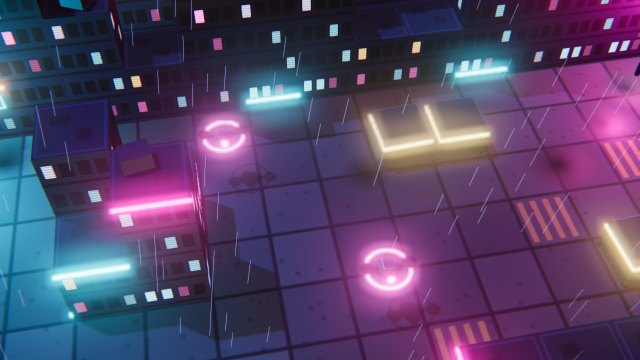
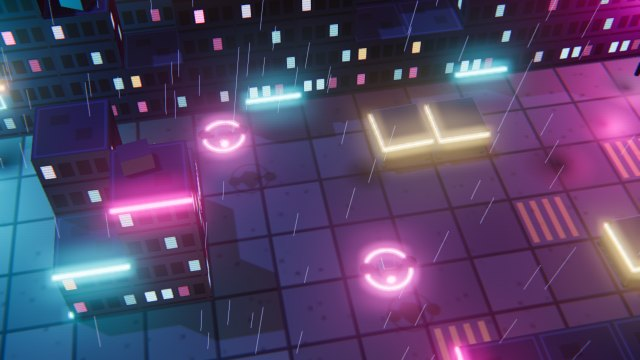
Add District 03: Cryo Admin with security gates
Laser gates 1-3 are solid in both worlds and drop as locks are cracked,
splitting the district into four zones cleared in order. The waypoint
skips locks still behind a closed gate, the minimap shows gates, and
wraith pathing refreshes when one opens. Story now leads to the
hypersleep bay.

diff --git a/src/world.js b/src/world.js
@@ -59,6 +59,7 @@ export class World {
     this.lastBlend = -1;
 
     this.spawns = { player: null, enemies: [], terminals: [], exit: null, lamps: [] };
+    this.locksDone = 0; // security gates 1/2/3 stay shut until this many locks are hacked
     this.parseEntities();
     this.buildEnvironments(renderer);
     this.buildLights();
@@ -73,6 +74,8 @@ export class World {
     this.buildLamps();
     this.buildTerminals();
     this.buildExit();
+    this.buildGates();
+    this.computeLockTiers();
   }
 
   // ---------- grid helpers ----------
@@ -93,6 +96,7 @@ export class World {
       case "~": return mode === "walk";
       case "b": return mode === "walk" && phase === CITY;
       case "v": return mode === "walk" && phase === BREACH;
+      case "1": case "2": case "3": return Number(ch) > this.locksDone;
       default: return false;
     }
   }
@@ -747,6 +751,8 @@ export class World {
       t.ring.material.color.copy(col).multiplyScalar(1.5);
       t.beam.visible = true;
     }
+    this.locksDone = 0;
+    for (const gt of this.gates || []) { gt.open = false; gt.fade = 1; gt.group.visible = true; }
     if (this.exit) {
       this.exit.open = false;
       this.exitRingMat.color.setRGB(1.5, 0.2, 0.25);
@@ -755,6 +761,110 @@ export class World {
       this.exitLight.intensity = 6;
       this.exit.beam.visible = false;
     }
+  }
+
+  // ---------- security gates (District 03+) ----------
+  // Each connected run of the same digit is one gate: laser curtains across the opening,
+  // with a floating number. Gate N drops once N locks are hacked, in any order.
+  buildGates() {
+    this.gates = [];
+    const seen = new Set();
+    for (let r = 0; r < this.rows; r++) for (let c = 0; c < this.cols; c++) {
+      const ch = this.grid[r][c];
+      if (!"123".includes(ch) || seen.has(r * this.cols + c)) continue;
+      const tiles = [], stack = [[r, c]];
+      seen.add(r * this.cols + c);
+      while (stack.length) {
+        const [tr, tc] = stack.pop();
+        tiles.push([tr, tc]);
+        for (const [dr, dc] of [[1, 0], [-1, 0], [0, 1], [0, -1]]) {
+          const nr = tr + dr, nc = tc + dc, k = nr * this.cols + nc;
+          if (this.ch(nr, nc) === ch && !seen.has(k)) { seen.add(k); stack.push([nr, nc]); }
+        }
+      }
+      this.gates.push(this.makeGate(Number(ch), tiles));
+    }
+  }
+
+  makeGate(n, tiles) {
+    const rs = tiles.map(t => t[0]), cs = tiles.map(t => t[1]);
+    const r0 = Math.min(...rs), r1 = Math.max(...rs), c0 = Math.min(...cs), c1 = Math.max(...cs);
+    const alongZ = (r1 - r0) >= (c1 - c0);           // opening runs north-south -> curtains face east-west
+    const g = new THREE.Group();
+    const color = new THREE.Color(1.0, 0.45, 0.1);
+    if (!this.gateTex) this.gateTex = gateTexture();
+    const curtainMat = new THREE.MeshBasicMaterial({
+      map: this.gateTex, color: color.clone().multiplyScalar(2.2), transparent: true, opacity: 0.9,
+      blending: THREE.AdditiveBlending, depthWrite: false, side: THREE.DoubleSide,
+    });
+    const span = ((alongZ ? r1 - r0 : c1 - c0) + 1) * TILE;
+    const layers = alongZ ? [c0, c1] : [r0, r1];
+    const postMat = new THREE.MeshStandardMaterial({ color: 0x20242e, metalness: 0.7, roughness: 0.4 });
+    const capMat = new THREE.MeshBasicMaterial({ color: color.clone().multiplyScalar(2.5) });
+    const mid = this.center((r0 + r1) / 2, (c0 + c1) / 2);
+    for (const L of layers) {
+      const curtain = new THREE.Mesh(new THREE.PlaneGeometry(span, 2.6), curtainMat);
+      const p = alongZ ? this.center(0, L) : this.center(L, 0);
+      curtain.position.set(alongZ ? p.x : mid.x, 1.3, alongZ ? mid.z : p.z);
+      if (alongZ) curtain.rotation.y = Math.PI / 2;
+      g.add(curtain);
+      // emitter posts at both ends of each curtain
+      for (const end of [-1, 1]) {
+        const post = new THREE.Mesh(new THREE.BoxGeometry(0.3, 2.9, 0.3), postMat);
+        const cap = new THREE.Mesh(new THREE.BoxGeometry(0.34, 0.12, 0.34), capMat);
+        const off = end * span / 2;
+        post.position.set(curtain.position.x + (alongZ ? 0 : off), 1.45, curtain.position.z + (alongZ ? off : 0));
+        cap.position.copy(post.position).setY(2.6);
+        post.castShadow = true;
+        g.add(post, cap);
+      }
+    }
+    // floating gate number so players can read the order at a glance
+    const label = new THREE.Sprite(new THREE.SpriteMaterial({ map: gateNumberTexture(n), transparent: true, depthWrite: false }));
+    label.scale.set(1.3, 1.3, 1);
+    label.position.set(mid.x, 3.5, mid.z);
+    g.add(label);
+    const light = new THREE.PointLight(0xff7a20, 10, 8, 1.6);
+    light.position.set(mid.x, 1.6, mid.z);
+    g.add(light);
+    this.group.add(g);
+    return { n, tiles, group: g, curtainMat, label, light, x: mid.x, z: mid.z, open: false, fade: 1 };
+  }
+
+  // Called after each hacked lock. Returns the gates that just opened.
+  openGates(locksDone) {
+    this.locksDone = locksDone;
+    const opened = [];
+    for (const gt of this.gates || []) if (!gt.open && gt.n <= locksDone) { gt.open = true; opened.push(gt); }
+    return opened;
+  }
+
+  // Which gate level each lock sits behind (walkable in either world), so the waypoint
+  // never points at a lock you can't reach yet.
+  computeLockTiers() {
+    const sp = this.spawns.player;
+    const maxGate = Math.max(0, ...(this.gates || []).map(g => g.n));
+    if (!sp) return;
+    const [sr, sc] = this.toTile(sp.x, sp.z);
+    for (let k = 0; k <= maxGate; k++) {
+      const seen = new Uint8Array(this.rows * this.cols);
+      const q = [[sr, sc]]; seen[sr * this.cols + sc] = 1;
+      while (q.length) {
+        const [r, c] = q.pop();
+        for (const [dr, dc] of [[1, 0], [-1, 0], [0, 1], [0, -1]]) {
+          const nr = r + dr, nc = c + dc;
+          if (!this.inside(nr, nc) || seen[nr * this.cols + nc]) continue;
+          const ch = this.grid[nr][nc];
+          if ("#cTR~".includes(ch) || ("123".includes(ch) && Number(ch) > k)) continue;
+          seen[nr * this.cols + nc] = 1; q.push([nr, nc]);
+        }
+      }
+      for (const t of this.terminals) {
+        if (t.tier !== undefined) continue;
+        if ([[1, 0], [-1, 0], [0, 1], [0, -1]].some(([dr, dc]) => this.inside(t.r + dr, t.c + dc) && seen[(t.r + dr) * this.cols + t.c + dc])) t.tier = k;
+      }
+    }
+    for (const t of this.terminals) if (t.tier === undefined) t.tier = 0;
   }
 
   openExit() {
@@ -815,6 +925,20 @@ export class World {
       term.beam.material.opacity = 0.35 + 0.45 * active + Math.sin(t * 1.5 + term.x) * 0.06;
     }
 
+    if (this.gateTex) this.gateTex.offset.y = (t * 0.6) % 1;
+    for (const gt of this.gates || []) {
+      if (!gt.group.visible) continue;
+      if (gt.open) {
+        gt.fade = Math.max(0, gt.fade - dt * 1.8);
+        if (gt.fade === 0) gt.group.visible = false;
+      }
+      const flick = gt.open ? (Math.sin(t * 60) > 0 ? 1 : 0.35) : 0.85 + Math.sin(t * 5 + gt.n) * 0.1;
+      gt.curtainMat.opacity = 0.9 * gt.fade * flick;
+      gt.light.intensity = 10 * gt.fade;
+      gt.label.material.opacity = gt.fade;
+      gt.label.position.y = 3.5 + Math.sin(t * 2 + gt.n) * 0.12;
+    }
+
     if (this.exit) {
       this.exit.ring1.rotation.y += dt * (this.exit.open ? 2.4 : 0.4);
       this.exit.ring2.rotation.x += dt * (this.exit.open ? 3.1 : 0.5);
@@ -826,4 +950,37 @@ export class World {
     this.assignLamps(focusX, focusZ, blend);
     this.followShadow(focusX, focusZ);
   }
+}
+
+// Horizontal laser lines with a soft glow, scrolled upward in update().
+function gateTexture() {
+  const c = document.createElement("canvas");
+  c.width = 64; c.height = 128;
+  const g = c.getContext("2d");
+  g.fillStyle = "rgba(255,255,255,0.06)"; g.fillRect(0, 0, 64, 128);
+  for (let y = 4; y < 128; y += 16) {
+    const grd = g.createLinearGradient(0, y - 4, 0, y + 4);
+    grd.addColorStop(0, "rgba(255,255,255,0)"); grd.addColorStop(0.5, "rgba(255,255,255,1)"); grd.addColorStop(1, "rgba(255,255,255,0)");
+    g.fillStyle = grd; g.fillRect(0, y - 4, 64, 8);
+  }
+  const t = new THREE.CanvasTexture(c);
+  t.wrapS = t.wrapT = THREE.RepeatWrapping;
+  t.repeat.set(4, 1);
+  t.colorSpace = THREE.SRGBColorSpace;
+  return t;
+}
+
+// Diamond badge with the gate number, used as a floating sprite.
+function gateNumberTexture(n) {
+  const c = document.createElement("canvas");
+  c.width = c.height = 128;
+  const g = c.getContext("2d");
+  g.strokeStyle = "#ff8a2a"; g.lineWidth = 8;
+  g.beginPath(); g.moveTo(64, 6); g.lineTo(122, 64); g.lineTo(64, 122); g.lineTo(6, 64); g.closePath();
+  g.fillStyle = "rgba(20,10,4,0.85)"; g.fill(); g.stroke();
+  g.fillStyle = "#ffd2a0"; g.font = "bold 64px monospace"; g.textAlign = "center"; g.textBaseline = "middle";
+  g.fillText(String(n), 64, 68);
+  const t = new THREE.CanvasTexture(c);
+  t.colorSpace = THREE.SRGBColorSpace;
+  return t;
 }

diff --git a/src/levels.js b/src/levels.js
@@ -12,6 +12,7 @@
 //   v  glass floor — walkway in CITY, void in BREACH (District 02+)
 //   d  drone (city)   t  turret (city)  w  wraith (breach)
 //   r  rift turret (breach)
+//   1 2 3  security gate — solid in BOTH worlds until that many locks are hacked (District 03+)
 // ============================================================
 
 export const LEVELS = [
@@ -103,7 +104,54 @@ export const LEVELS = [
       "##############################################",
     ],
     storyAfter: [
-      { speaker: "DR. LENA VOSS", text: "That's the transit levels behind us. Portal Zero is close now. I can feel the station shaking." },
+      { speaker: "DR. LENA VOSS", text: "That's the transit levels behind us. Next is cryo administration. Station security is still running there." },
+      { speaker: "DR. LENA VOSS", text: "Laser gates, Calder. Phasing won't get you through them. They're wired to the locks. Crack a lock and it reroutes power away from a gate." },
+    ],
+  },
+  {
+    id: "d03",
+    name: "DISTRICT 03 // CRYO ADMIN",
+    briefing: [
+      "Station security still guards the cryo wing. Four locks, four sealed zones.",
+      "NEW: orange laser gates block BOTH worlds. Each lock you crack drops the next gate: 1, then 2, then 3.",
+      "One terminal is sealed inside a holo-barrier box. Phase in through the wall, then shift back to hack it.",
+    ],
+    legendExtra: "<i class='sw gate'></i> NEW: security gates open as you crack locks (gate 1 after 1 lock, gate 2 after 2...)",
+    map: [
+      "##############################################",
+      "##############################################",
+      "##L......L~~~~~......L##L...A...A..........L##",
+      "##..X.....~~~~~.......##....A.T.A.........r.##",
+      "##........vvvvv..d.c..##....A...A........c..##",
+      "##.....w..vvvvv.......33....A...A.....d.....##",
+      "##........~~~~~.......33....AAAAA...........##",
+      "##.##.....~~~~~.##....33...w....L....c......##",
+      "##.##.w...~~~~~.##....##..........##........##",
+      "##.....c..~~~~~.......##..B.......##......t.##",
+      "##........bbbbb....t..##..B...w.........##..##",
+      "##...R....bbbbb.w.....##..B......c......##..##",
+      "##......r.~~~~~...c...##..B...c......d......##",
+      "##Lc......~~~~~......L##L..................L##",
+      "#####################################222######",
+      "#####################################222######",
+      "##L.................L.##L.....~~~~L........L##",
+      "##..........c.......t.##...c..~~~~.......r..##",
+      "##....T........##.....##......vvvv..........##",
+      "##.............##.d...##......vvvv..........##",
+      "##.....c..............##...d..~~~~.c........##",
+      "##.......##..L........11......~~~~......R...##",
+      "##.......##...........11......~~~~..c.....w.##",
+      "##....d............c..11..##..~~~~..........##",
+      "##.............c......##..##..bbbb..........##",
+      "##..P............w....##......bbbb....w.....##",
+      "##.........c..........##....t.~~~~.......c..##",
+      "##L.................L.##L.....~~~~.........L##",
+      "##############################################",
+      "##############################################",
+    ],
+    storyAfter: [
+      { speaker: "DR. LENA VOSS", text: "Security's down. The admin logs say the hypersleep bay is below us. Dozens of pods, all still running." },
+      { speaker: "DR. LENA VOSS", text: "Somebody's still alive in there, Calder. The pods take crew ID cards. Find one and we can wake them." },
       { speaker: "NARRATOR", text: "To be continued in the next build." },
     ],
   },

diff --git a/src/main.js b/src/main.js
@@ -341,6 +341,8 @@ const HINTS = [
     text: "GLASS WALKWAY &nbsp;//&nbsp; it only exists in the <b class='c'>CITY</b>. Cross it, reach solid ground, <i>then</i> <kbd>SHIFT</kbd>." },
   { id: "rift", when: () => game.phase === BREACH && game.enemies.some(e => e.alive && e.type === "riftTurret" && Math.hypot(e.pos.x - player.pos.x, e.pos.z - player.pos.z) < 14), dur: 6,
     text: "<b class='r'>RIFT TURRET</b> &nbsp;//&nbsp; it only exists in the Breach. Shoot it, or <kbd>SHIFT</kbd> to the City where it can't see you." },
+  { id: "gate", when: () => world.gates?.some(g => !g.open && Math.hypot(g.x - player.pos.x, g.z - player.pos.z) < 7), dur: 9,
+    text: "<b style='color:#ffb347'>SECURITY GATE</b> &nbsp;//&nbsp; blocks BOTH worlds. Crack locks to cut its power: gate <b>1</b> drops after 1 lock, gate <b>2</b> after 2..." },
   { id: "exit", when: () => world.exit?.open, dur: 6,
     text: "All locks breached &nbsp;//&nbsp; follow the marker to the <b class='c'>EXIT PORTAL</b>" },
 ];
@@ -571,10 +573,20 @@ function completeTerminal(t) {
   updateObjective();
   // checkpoint: where you stood (and which world) when the lock fell
   game.checkpoint = { x: player.pos.x, z: player.pos.z, phase: game.phase };
+  // security gates (District 03+): each hacked lock powers down the next gate
+  const opened = world.openGates(done);
+  for (const gt of opened) {
+    shockwaves.spawn(gt.x, gt.z, new THREE.Color(1, 0.55, 0.2), 6, 0.5);
+    flashes.flash(gt.x, 2, gt.z, 0xff8a2a, 10 * game.fx, 0.5, 10);
+  }
+  if (opened.length) game.flowKey = "";   // wraiths can path through it now
   if (done === total) {
     world.openExit();
     audio.portalOpen();
     hud.toast("ALL LOCKS BREACHED // PORTAL ONLINE", "#55e6ff");
+  } else if (opened.length) {
+    audio.portalOpen();
+    hud.toast(`LOCK ${done}/${total} BREACHED // SECURITY GATE ${opened.map(g => g.n).join(" + ")} OFFLINE`, "#ffb347");
   } else {
     hud.toast(`LOCK ${done}/${total} BREACHED // CHECKPOINT SAVED`, "#7df5bc");
   }

diff --git a/src/hud.js b/src/hud.js
@@ -171,7 +171,7 @@ export class Hud {
     else {
       let best = Infinity;
       for (const t of world.terminals) {
-        if (t.hacked) continue;
+        if (t.hacked || (t.tier || 0) > world.locksDone) continue;   // skip locks still behind a gate
         const d = Math.hypot(t.x - player.pos.x, t.z - player.pos.z);
         if (d < best) { best = d; target = t; }
       }
@@ -258,6 +258,11 @@ export class Hud {
       g.rotate(Math.PI / 4);
       g.fillRect(-3, -3, 6, 6);
       g.restore();
+    }
+    for (const gt of game.world.gates || []) {
+      if (gt.open) continue;
+      g.fillStyle = "#ff8a2a";
+      for (const [r, c] of gt.tiles) g.fillRect(c * this.mmScale, r * this.mmScale, this.mmScale, this.mmScale);
     }
     const ex = game.world.exit;
     if (ex) {

diff --git a/style.css b/style.css
@@ -222,6 +222,7 @@ kbd {
   #toast { top: 150px; white-space: normal; max-width: 92vw; text-align: center; font-size: 12px; }
 }
 .sw.glass { background: #2a8fa8; box-shadow: 0 0 8px #55e6ff; }
+.sw.gate { background: #ff8a2a; box-shadow: 0 0 8px #ffb347; }
 
 /* ---------- district select ---------- */
 .select-panel { width: min(720px, 94vw); max-height: 92vh; overflow-y: auto; }

diff --git a/DEVLOG.md b/DEVLOG.md
@@ -285,3 +285,19 @@ Edit a number in the script, re-run it, and the model updates. The `.sc` design 
 - WASD is now relative to where Jax faces: **W runs toward the mouse**, S backs away, A/D strafe around it. No more running into a wall because "up" on the keyboard didn't match where he was looking.
 - It steers by the cursor, not the auto-aim lock, so holding fire never pulls you off course.
 - The old screen-direction movement is still there: Esc → MOVEMENT: SCREEN (saved between sessions).
+
+## Day 3 — 2026-11-13: District 03 // CRYO ADMIN
+
+**New twist: security gates.** Orange laser curtains with a floating number badge. Unlike everything else in the game they're solid in *both* worlds, so phasing can't cheat past them. Each lock you crack reroutes power: gate 1 drops after one lock, gate 2 after two, gate 3 after three. That turns the district into four sealed zones you clear in a loop.
+
+- Zone 1: an easy city terminal to learn the gate rule.
+- Zone 2: a chasm crossed by City glass *or* a Breach bridge, rift node on the far side.
+- Zone 3: a terminal sealed inside a holo-barrier box. Phase in through the wall, shift back inside, hack.
+- Zone 4: glass and bridge over the void again, the last rift node, and the exit.
+- The waypoint now skips locks that are still behind a closed gate (each lock knows which gate level it's behind, worked out with a flood fill from the start).
+- The minimap draws closed gates in orange; wraith pathing updates the moment a gate drops.
+- Map generated by a script that proves the progression: 1 lock reachable at the start, 2 after gate 1, 3 after gate 2, all 4 plus the exit after gate 3.
+
+**Story setup:** the briefing after District 03 points to the hypersleep bay. That's District 05: a room of pods where Jax finds a crew ID card that wakes a new playable character. More cards later unlock more pod characters, each with their own Shift/right-click ability (first one: **Remote Hack**). Tab will swap between unlocked characters.
+
+![security gate](devlog/2026-11-13/30-security-gate.jpg)
